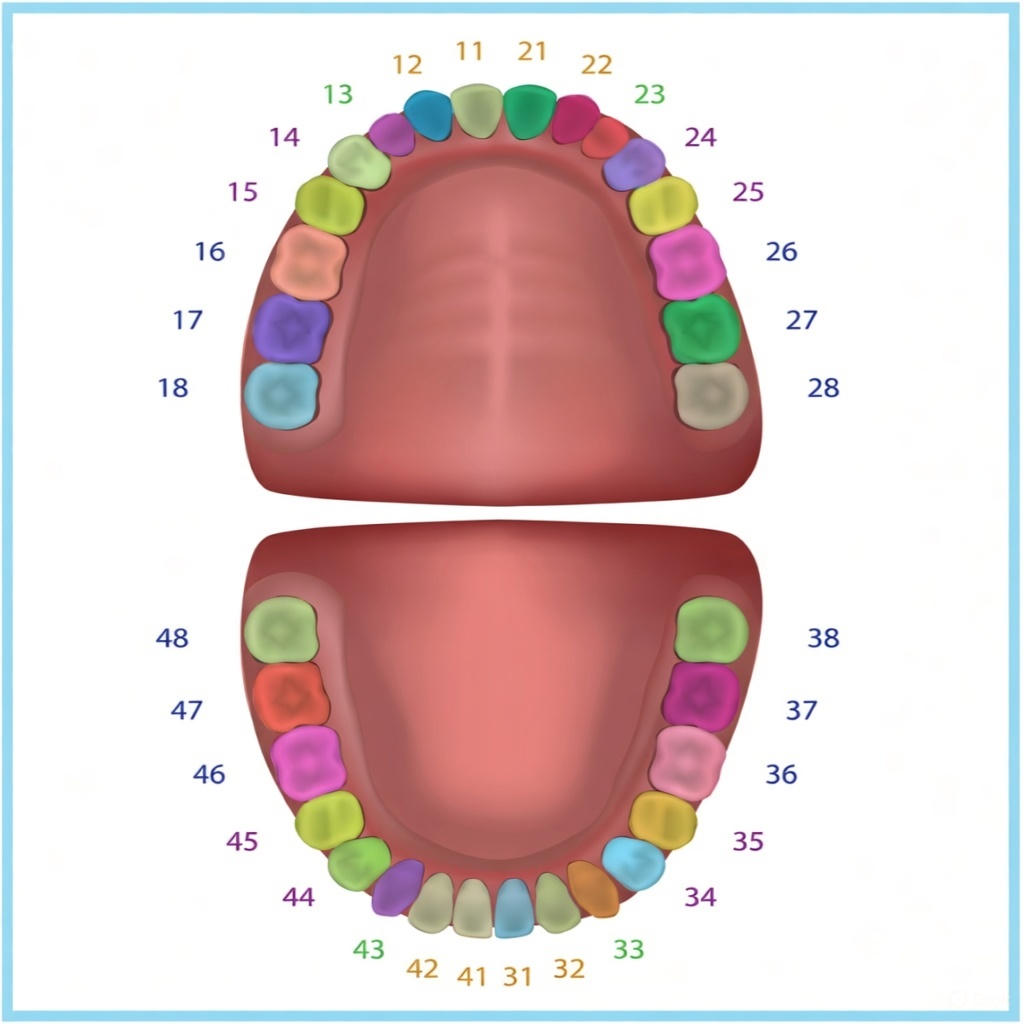
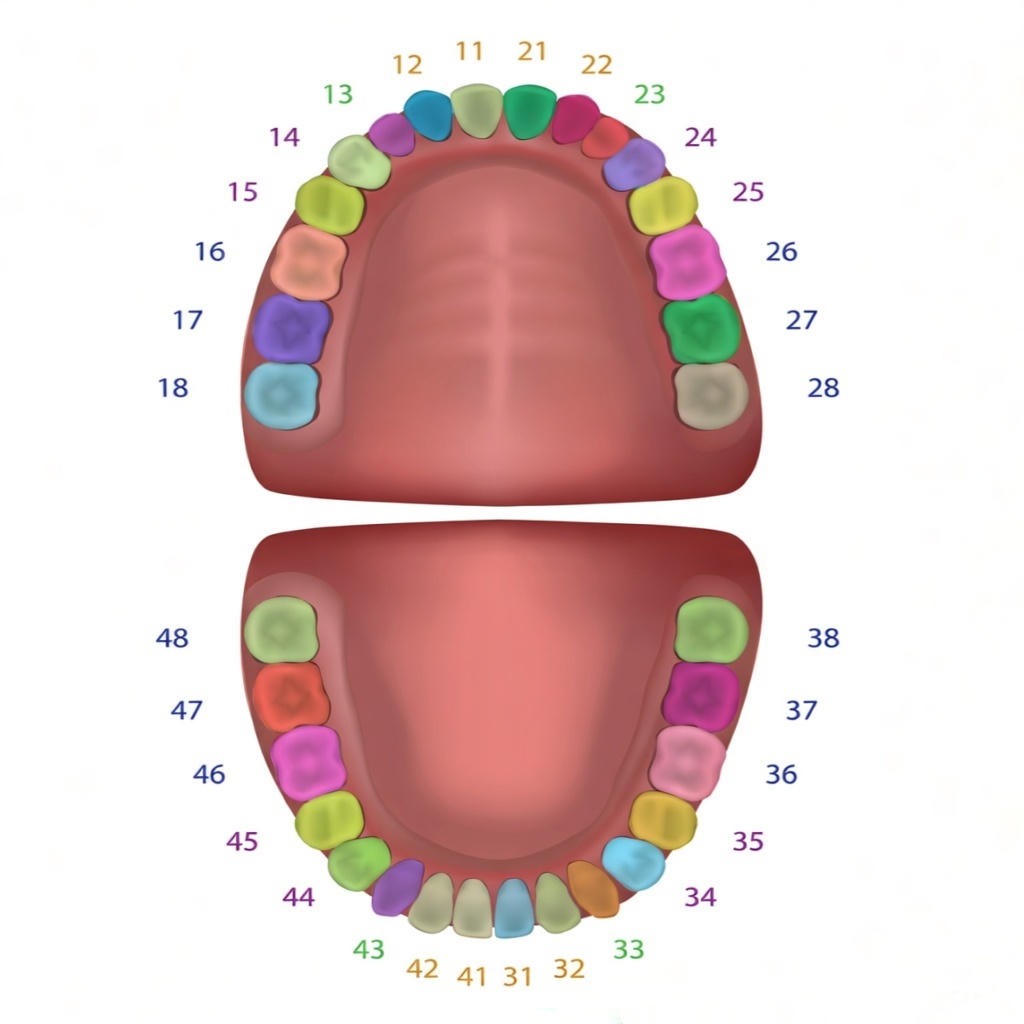
massive improve on the dental chart. It now shows treated teeth, uses an actual image for the dental chart and the treatment section is reacher with notes and date/time of any update

Changed region(s): [[0.0, 0.0, 1.0, 1.0]]

diff --git a/app/src/components/dental-chart.tsx b/app/src/components/dental-chart.tsx
@@ -1,7 +1,7 @@
 "use client";
 
 import clsx from "clsx";
-import { useEffect, useMemo, useState } from "react";
+import { useEffect, useMemo, useRef, useState } from "react";
 import { emitToast } from "./global-toasts";
 
 type DentalRecord = {
@@ -9,6 +9,7 @@ type DentalRecord = {
   tooth: number; // 0 means "Tutta la bocca"
   procedure: string;
   notes: string | null;
+  treated?: boolean;
   performedAt: string;
   updatedAt?: string;
   updatedByName?: string | null;
@@ -33,10 +34,45 @@ type ToothData = {
 };
 
 const TOOTH_IMAGES: Record<ToothData["type"], string> = {
-  incisor: "/teeth/incisivi.jpg",
-  canine: "/teeth/canini.jpg",
-  premolar: "/teeth/premolari.jpg",
-  molar: "/teeth/molari.jpg",
+  incisor: "/teeth/incisivi.png",
+  canine: "/teeth/canini.png",
+  premolar: "/teeth/premolari.png",
+  molar: "/teeth/molari.png",
+};
+
+const TOOTH_POSITIONS: Record<number, { x: number; y: number }> = {
+  11: { x: 46.4, y: 10.7 },
+  12: { x: 41.8, y: 11.4 },
+  13: { x: 38.6, y: 13.5 },
+  14: { x: 35, y: 16 },
+  15: { x: 31.8, y: 20.3 },
+  16: { x: 30, y: 25.9 },
+  17: { x: 28.3, y: 32.1 },
+  18: { x: 27.8, y: 38.7 },
+  21: { x: 51.6, y: 11.1 },
+  22: { x: 56.4, y: 12 },
+  23: { x: 59.7, y: 13.5 },
+  24: { x: 61.7, y: 16.3 },
+  25: { x: 65.1, y: 20.1 },
+  26: { x: 66.5, y: 25.5 },
+  27: { x: 68.5, y: 32.2 },
+  28: { x: 68.9, y: 38.5 },
+  31: { x: 50.5, y: 88.7 },
+  32: { x: 54.1, y: 88.8 },
+  33: { x: 58.1, y: 87 },
+  34: { x: 62, y: 84.5 },
+  35: { x: 64.5, y: 80.1 },
+  36: { x: 67.1, y: 74.1 },
+  37: { x: 68.2, y: 67.5 },
+  38: { x: 69.1, y: 61.8 },
+  41: { x: 46.4, y: 88.8 },
+  42: { x: 42.1, y: 88.5 },
+  43: { x: 39, y: 86.2 },
+  44: { x: 35.2, y: 84.5 },
+  45: { x: 30.6, y: 75.5 },
+  46: { x: 30.1, y: 73.8 },
+  47: { x: 28, y: 68.4 },
+  48: { x: 27.5, y: 61.8 },
 };
 
 const getToothType = (toothId: number): ToothData["type"] => {
@@ -217,6 +253,8 @@ export function DentalChart({
   const [customProcedure, setCustomProcedure] = useState("");
   const [isSubmitting, setIsSubmitting] = useState(false);
   const [noteDrafts, setNoteDrafts] = useState<Record<string, string>>({});
+  const chartRef = useRef<HTMLDivElement | null>(null);
+  const [useColorChart, setUseColorChart] = useState(false);
 
   useEffect(() => {
     setNoteDrafts((prev) => {
@@ -260,6 +298,31 @@ export function DentalChart({
     setNotes(record?.notes ?? "");
   };
 
+  const handleChartClick = (event: React.MouseEvent<HTMLDivElement>) => {
+    const wrapper = chartRef.current;
+    if (!wrapper) return;
+    const rect = wrapper.getBoundingClientRect();
+    const clickX = ((event.clientX - rect.left) / rect.width) * 100;
+    const clickY = ((event.clientY - rect.top) / rect.height) * 100;
+    let closestTooth: number | null = null;
+    let minDistance = Infinity;
+    const threshold = 6;
+
+    Object.entries(TOOTH_POSITIONS).forEach(([tooth, pos]) => {
+      const dx = clickX - pos.x;
+      const dy = clickY - pos.y;
+      const dist = Math.sqrt(dx * dx + dy * dy);
+      if (dist < minDistance) {
+        minDistance = dist;
+        closestTooth = Number(tooth);
+      }
+    });
+
+    if (closestTooth !== null && minDistance <= threshold) {
+      handleSelectTooth(closestTooth);
+    }
+  };
+
   const handleSave = async () => {
     const chosenProcedure = procedure === "altro" ? customProcedure.trim() : procedure;
     if (selectedTooth === null || !chosenProcedure) {
@@ -280,14 +343,20 @@ export function DentalChart({
         throw new Error(body?.error || "Salvataggio non riuscito");
       }
 
-      const data = (await res.json()) as { record: DentalRecord };
+      const data = (await res.json()) as {
+        record: DentalRecord & { updatedBy?: { name?: string | null; email?: string | null } | null };
+      };
+      const normalized: DentalRecord = {
+        ...data.record,
+        updatedByName: data.record.updatedBy?.name ?? data.record.updatedBy?.email ?? data.record.updatedByName ?? null,
+      };
       setRecords((prev) => {
-        const others = prev.filter((r) => r.id !== data.record.id && r.tooth !== data.record.tooth);
-        return [...others, { ...data.record, performedAt: data.record.performedAt }];
+        const others = prev.filter((r) => r.id !== normalized.id && r.tooth !== normalized.tooth);
+        return [...others, { ...normalized, performedAt: normalized.performedAt }];
       });
       setNoteDrafts((prev) => ({
         ...prev,
-        [data.record.id]: data.record.notes ?? "",
+        [normalized.id]: normalized.notes ?? "",
       }));
       setCustomProcedure("");
     } catch (error) {
@@ -362,6 +431,35 @@ export function DentalChart({
     }
   };
 
+  const updateRecordTreated = async (recordId: string, treated: boolean) => {
+    setIsSubmitting(true);
+    try {
+      const res = await fetch(`/api/patients/${patientId}/dental-records`, {
+        method: "PATCH",
+        headers: { "Content-Type": "application/json" },
+        body: JSON.stringify({ recordId, treated }),
+      });
+      if (!res.ok) {
+        const body = await res.json().catch(() => ({}));
+        throw new Error(body?.error || "Salvataggio stato non riuscito");
+      }
+      const data = (await res.json()) as {
+        record: DentalRecord & { updatedBy?: { name?: string | null; email?: string | null } | null };
+      };
+      const normalized: DentalRecord = {
+        ...data.record,
+        updatedByName: data.record.updatedBy?.name ?? data.record.updatedBy?.email ?? data.record.updatedByName ?? null,
+      };
+      setRecords((prev) => prev.map((r) => (r.id === normalized.id ? normalized : r)));
+      emitToast("Stato aggiornato", "success");
+    } catch (error) {
+      console.error(error);
+      emitToast("Impossibile aggiornare lo stato", "error");
+    } finally {
+      setIsSubmitting(false);
+    }
+  };
+
   return (
     <details
       className={clsx(
@@ -409,9 +507,7 @@ export function DentalChart({
         </div>
     <div className="rounded-2xl bg-white">
       <div className="flex items-center justify-between border-b border-zinc-200 px-6 py-4">
-        <div>
-          <h2 className="text-lg font-semibold text-zinc-900">Arcata dentale (FDI 2 cifre)</h2>
-        </div>
+        <div />
         <div className="flex items-center gap-2 text-xs text-zinc-500">
           <span className="inline-flex items-center gap-1 rounded-full bg-emerald-50 px-2 py-1 font-semibold text-emerald-800">
             Seleziona dente e salva procedura
@@ -435,14 +531,6 @@ export function DentalChart({
         <section className="flex flex-col items-center justify-center rounded-xl border border-zinc-200 bg-gradient-to-b from-zinc-50 to-white">
           <div className="mb-4 flex flex-wrap items-center gap-3 text-xs text-zinc-600">
             {[
-              {
-                label: "Sano",
-                render: (
-                  <svg width="26" height="26" viewBox="0 0 24 24" aria-hidden>
-                    <path d={TOOTH_PATHS.incisor} fill="#fff" stroke="#d4d4d8" strokeWidth="1.5" />
-                  </svg>
-                ),
-              },
               {
                 label: "Trattato",
                 render: (
@@ -470,21 +558,54 @@ export function DentalChart({
               </span>
             ))}
           </div>
-          <div className="w-full max-w-3xl overflow-hidden rounded-2xl border border-zinc-200 bg-white p-4 shadow-inner">
-            <div className="relative h-full w-full">
-              <svg viewBox="-80 0 440 340" className="h-full w-full">
-                <line x1="140" y1="0" x2="140" y2="340" stroke="#e4e4e7" strokeWidth="2" />
-                <line x1="-80" y1="170" x2="360" y2="170" stroke="#e4e4e7" strokeWidth="2" />
-                {TEETH.map((tooth) => (
-                  <Tooth
-                    key={tooth.id}
-                    data={tooth}
-                    isSelected={selectedTooth === tooth.id}
-                    hasRecord={Boolean(recordsByTooth.get(tooth.id))}
-                    onClick={handleSelectTooth}
+          <div
+            ref={chartRef}
+            onClick={handleChartClick}
+            className="relative w-full max-w-3xl overflow-hidden rounded-2xl border border-zinc-200 bg-white shadow-inner cursor-pointer"
+          >
+            <img
+              key={useColorChart ? "mouth-color" : "mouth-white"}
+              src={useColorChart ? "/teeth/mouth_color.png" : "/teeth/mouth_white.png"}
+              alt="Arcata dentale"
+              className="block h-auto w-full select-none"
+              draggable={false}
+            />
+            <svg className="absolute inset-0 h-full w-full" viewBox="0 0 100 100" preserveAspectRatio="none">
+              {records
+                .filter((record) => record.treated && TOOTH_POSITIONS[record.tooth])
+                .map((record) => (
+                  <circle
+                    key={`treated-${record.id}`}
+                    cx={TOOTH_POSITIONS[record.tooth].x}
+                    cy={TOOTH_POSITIONS[record.tooth].y}
+                    r="3.5"
+                    fill="none"
+                    stroke="#22c55e"
+                    strokeWidth="0.6"
                   />
                 ))}
-              </svg>
+              {selectedTooth !== null && selectedTooth !== 0 && TOOTH_POSITIONS[selectedTooth] ? (
+                <circle
+                  cx={TOOTH_POSITIONS[selectedTooth].x}
+                  cy={TOOTH_POSITIONS[selectedTooth].y}
+                  r="3.5"
+                  fill="none"
+                  stroke="#ef4444"
+                  strokeWidth="0.5"
+                />
+              ) : null}
+            </svg>
+            <div className="absolute bottom-3 left-3 rounded-full bg-white/90 px-3 py-2 text-[11px] font-semibold text-zinc-700 shadow-sm">
+              <label className="inline-flex items-center gap-2">
+                <input
+                  type="checkbox"
+                  className="h-4 w-4 rounded border-zinc-300"
+                  checked={useColorChart}
+                  onChange={(e) => setUseColorChart(e.target.checked)}
+                  onClick={(e) => e.stopPropagation()}
+                />
+                Colori
+              </label>
             </div>
           </div>
         </section>
@@ -591,7 +712,7 @@ export function DentalChart({
         </aside>
       </div>
 
-      <aside className="rounded-xl border border-zinc-200 bg-zinc-50 p-6 shadow-sm">
+      <aside className="mx-6 mb-6 rounded-xl border border-zinc-200 bg-white p-6 shadow-sm">
         <div className="flex items-center justify-between pb-2">
           <h3 className="text-sm font-semibold text-zinc-900">Pianificazioni</h3>
           <span className="rounded-full bg-white px-2 py-1 text-[11px] font-semibold text-zinc-700">
@@ -684,18 +805,35 @@ export function DentalChart({
                         ) : (
                           <span />
                         )}
-                        <button
-                          type="button"
-                          onClick={(e) => {
-                            e.preventDefault();
-                            e.stopPropagation();
-                            updateRecordNote(rec.id);
-                          }}
-                          disabled={isSubmitting || (noteDrafts[rec.id] ?? "") === (rec.notes ?? "")}
-                          className="rounded-full border border-emerald-200 px-2 py-1 text-[11px] font-semibold text-emerald-800 transition hover:border-emerald-300 disabled:cursor-not-allowed disabled:opacity-50"
-                        >
-                          Salva nota
-                        </button>
+                        <div className="flex items-center gap-2">
+                          <label
+                            className="inline-flex items-center gap-2 text-[11px] font-semibold text-zinc-700"
+                            onClick={(e) => e.stopPropagation()}
+                          >
+                            <input
+                              type="checkbox"
+                              checked={Boolean(rec.treated)}
+                              onChange={(e) => {
+                                e.stopPropagation();
+                                updateRecordTreated(rec.id, e.target.checked);
+                              }}
+                              className="h-4 w-4 rounded border-zinc-300"
+                            />
+                            Trattato
+                          </label>
+                          <button
+                            type="button"
+                            onClick={(e) => {
+                              e.preventDefault();
+                              e.stopPropagation();
+                              updateRecordNote(rec.id);
+                            }}
+                            disabled={isSubmitting || (noteDrafts[rec.id] ?? "") === (rec.notes ?? "")}
+                            className="rounded-full border border-emerald-200 px-2 py-1 text-[11px] font-semibold text-emerald-800 transition hover:border-emerald-300 disabled:cursor-not-allowed disabled:opacity-50"
+                          >
+                            Salva nota
+                          </button>
+                        </div>
                       </div>
                     </div>
                     <div className="mt-2 flex justify-end opacity-0 transition group-hover:opacity-100">

diff --git a/app/src/app/api/patients/[patientId]/dental-records/route.ts b/app/src/app/api/patients/[patientId]/dental-records/route.ts
@@ -45,10 +45,12 @@ export async function POST(req: Request, { params }: RouteParams) {
     const record = existing
       ? await prisma.dentalRecord.update({
           where: { id: existing.id },
-          data: { procedure, notes, performedAt: new Date() },
+          data: { procedure, notes, performedAt: new Date(), updatedById: user.id },
+          include: { updatedBy: { select: { name: true, email: true } } },
         })
       : await prisma.dentalRecord.create({
-          data: { patientId, tooth, procedure, notes },
+          data: { patientId, tooth, procedure, notes, updatedById: user.id },
+          include: { updatedBy: { select: { name: true, email: true } } },
         });
 
     await logAudit(user, {
@@ -158,7 +160,10 @@ export async function PATCH(req: Request, { params }: RouteParams) {
   try {
     const body = await req.json();
     const recordId = (body?.recordId as string | undefined)?.trim() || "";
-    const notes = (body?.notes as string | undefined)?.trim() || null;
+    const notesRaw = body?.notes as string | undefined;
+    const notes = typeof notesRaw === "string" ? notesRaw.trim() : undefined;
+    const treatedRaw = body?.treated;
+    const treated = typeof treatedRaw === "boolean" ? treatedRaw : undefined;
 
     if (!recordId) {
       return errorResponse({
@@ -166,6 +171,15 @@ export async function PATCH(req: Request, { params }: RouteParams) {
         status: 400,
         source: "dental_record_note_update",
         context: { patientId },
+        actor: user,
+      });
+    }
+    if (notes === undefined && treated === undefined) {
+      return errorResponse({
+        message: "Nessun aggiornamento richiesto",
+        status: 400,
+        source: "dental_record_note_update",
+        context: { patientId, recordId },
         actor: user,
       });
     }
@@ -183,7 +197,11 @@ export async function PATCH(req: Request, { params }: RouteParams) {
 
     const updated = await prisma.dentalRecord.update({
       where: { id: recordId },
-      data: { notes, updatedById: user.id },
+      data: {
+        notes: notes === undefined ? undefined : notes || null,
+        treated: treated === undefined ? undefined : treated,
+        updatedById: user.id,
+      },
       include: {
         updatedBy: { select: { name: true, email: true } },
       },

diff --git a/app/src/app/[locale]/(app)/pazienti/[id]/page.tsx b/app/src/app/[locale]/(app)/pazienti/[id]/page.tsx
@@ -704,6 +704,7 @@ export default async function PatientDetailPage({
     performedAt: record.performedAt.toISOString(),
     updatedAt: record.updatedAt?.toISOString?.() ?? null,
     updatedByName: record.updatedBy?.name ?? record.updatedBy?.email ?? null,
+    treated: record.treated ?? false,
   }));
   const readContent = async (file: string, fallback: string) => {
     try {
